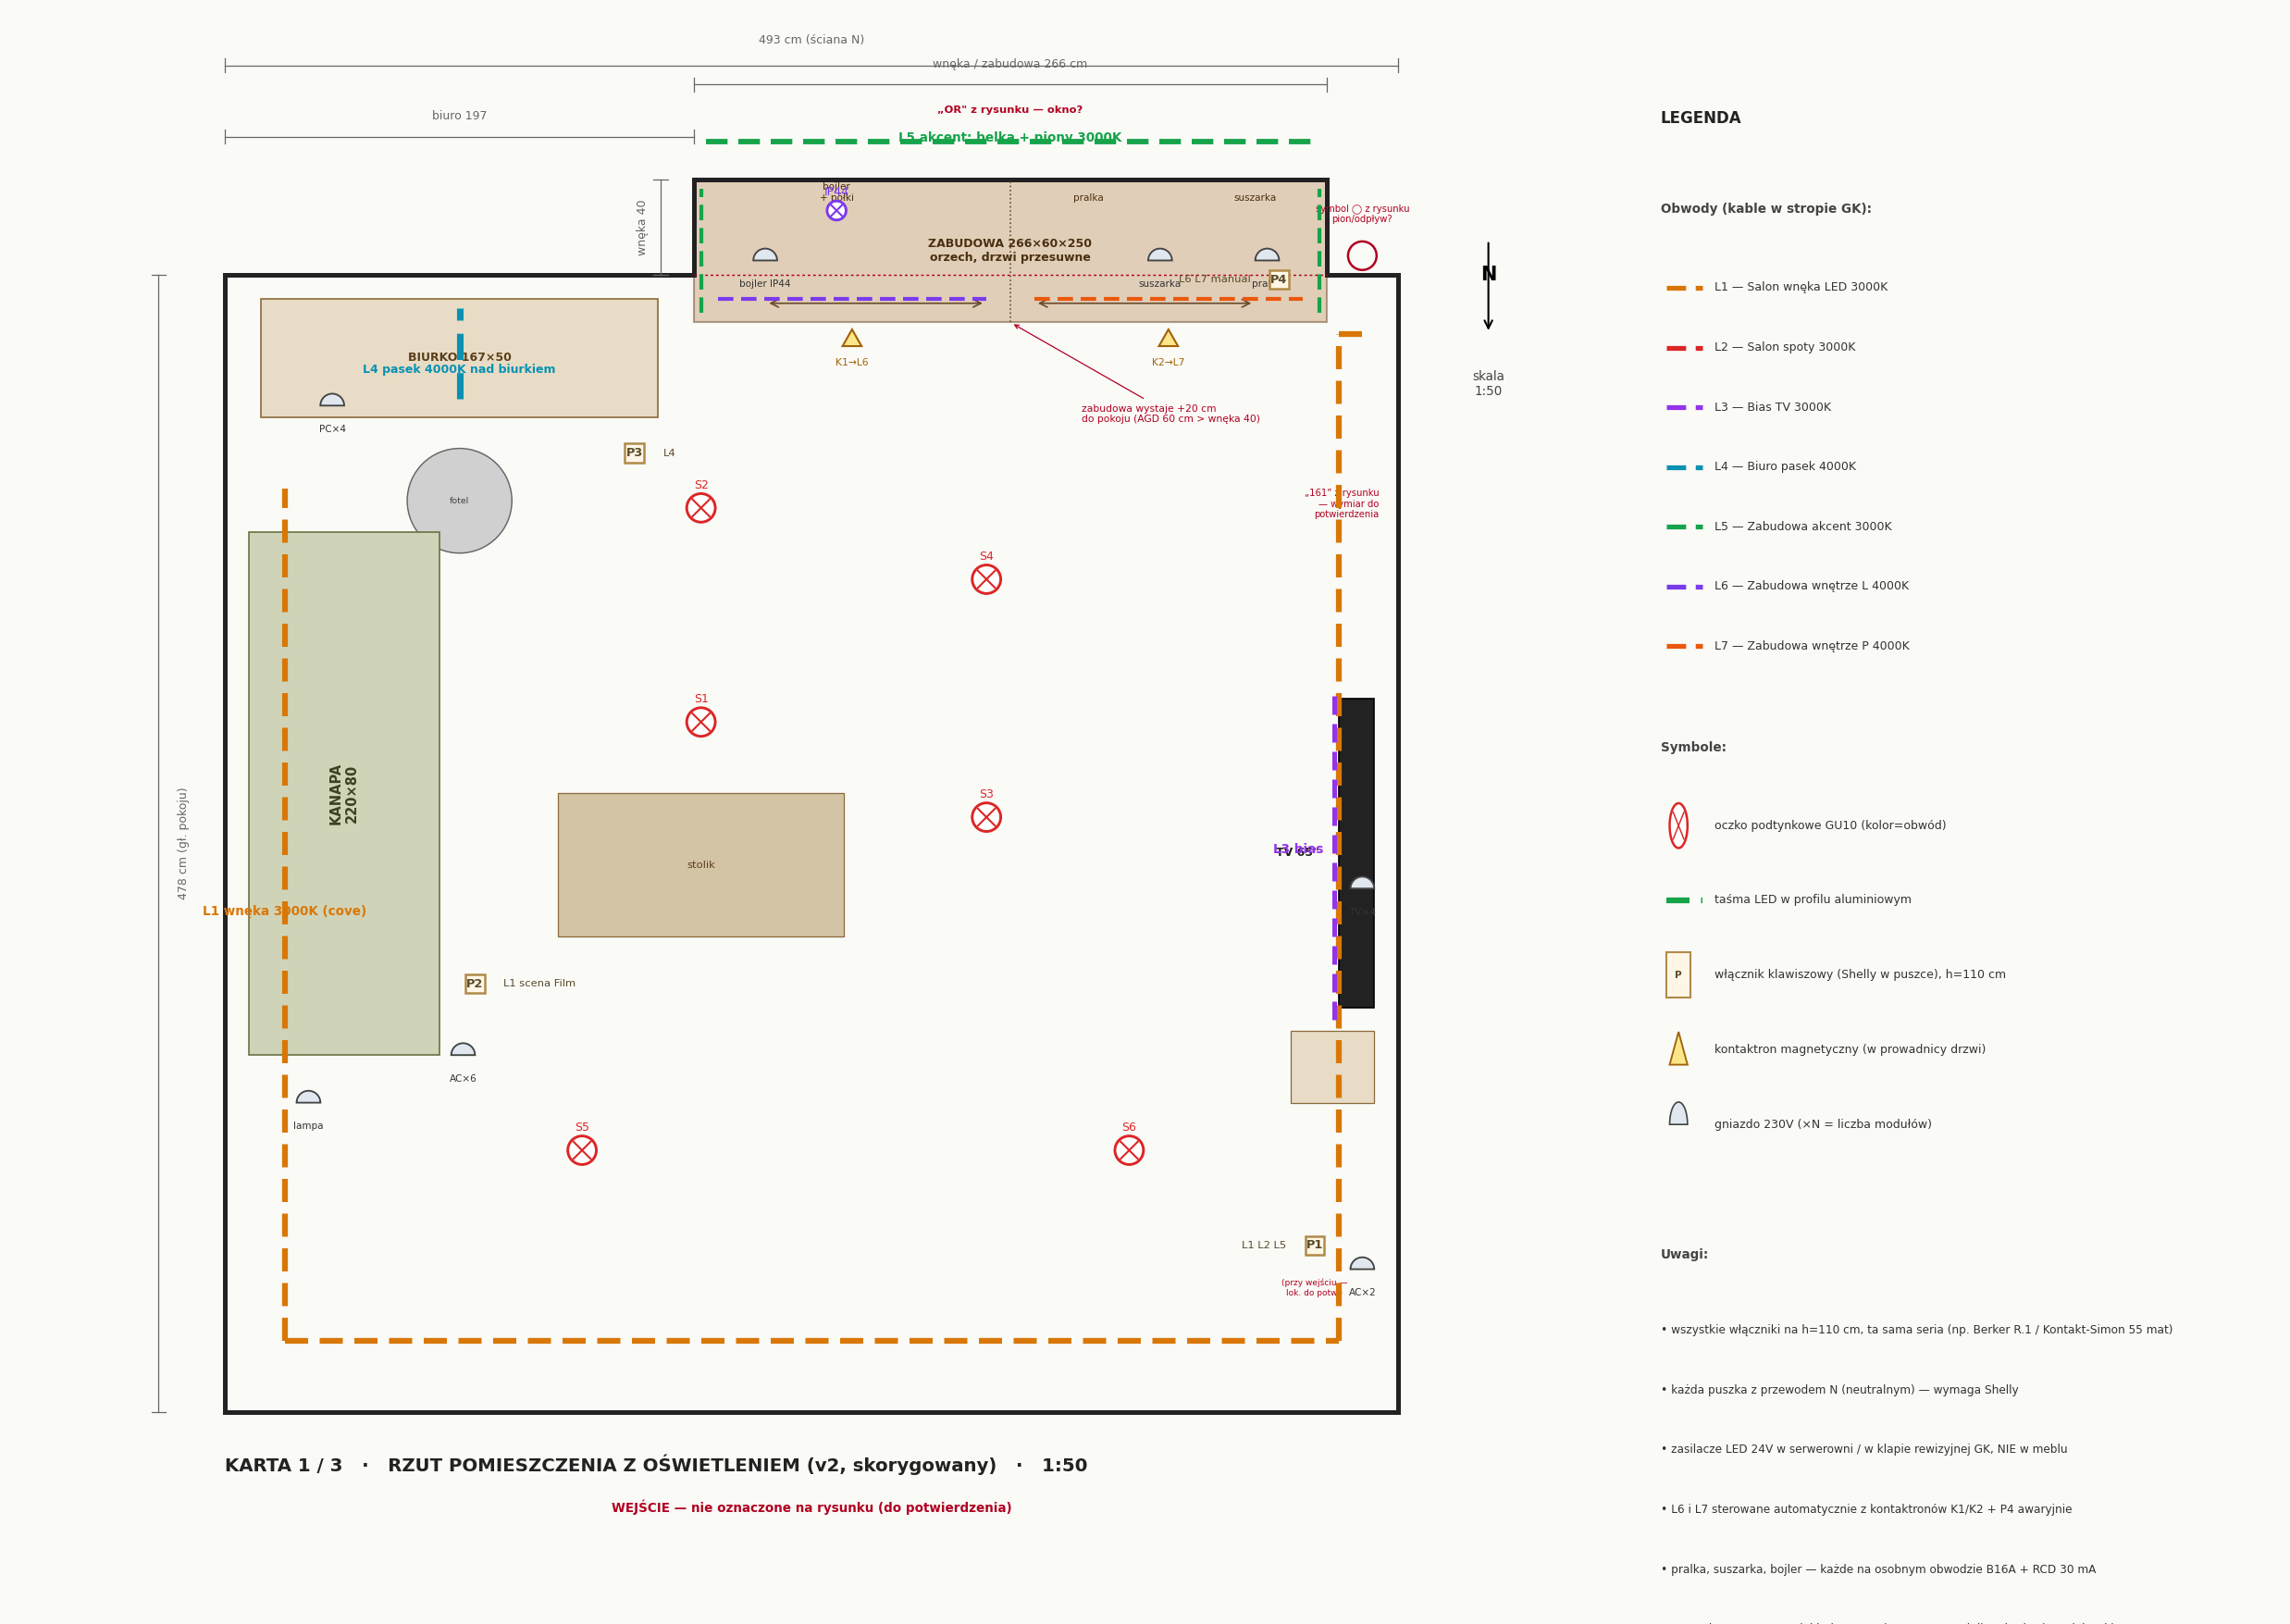
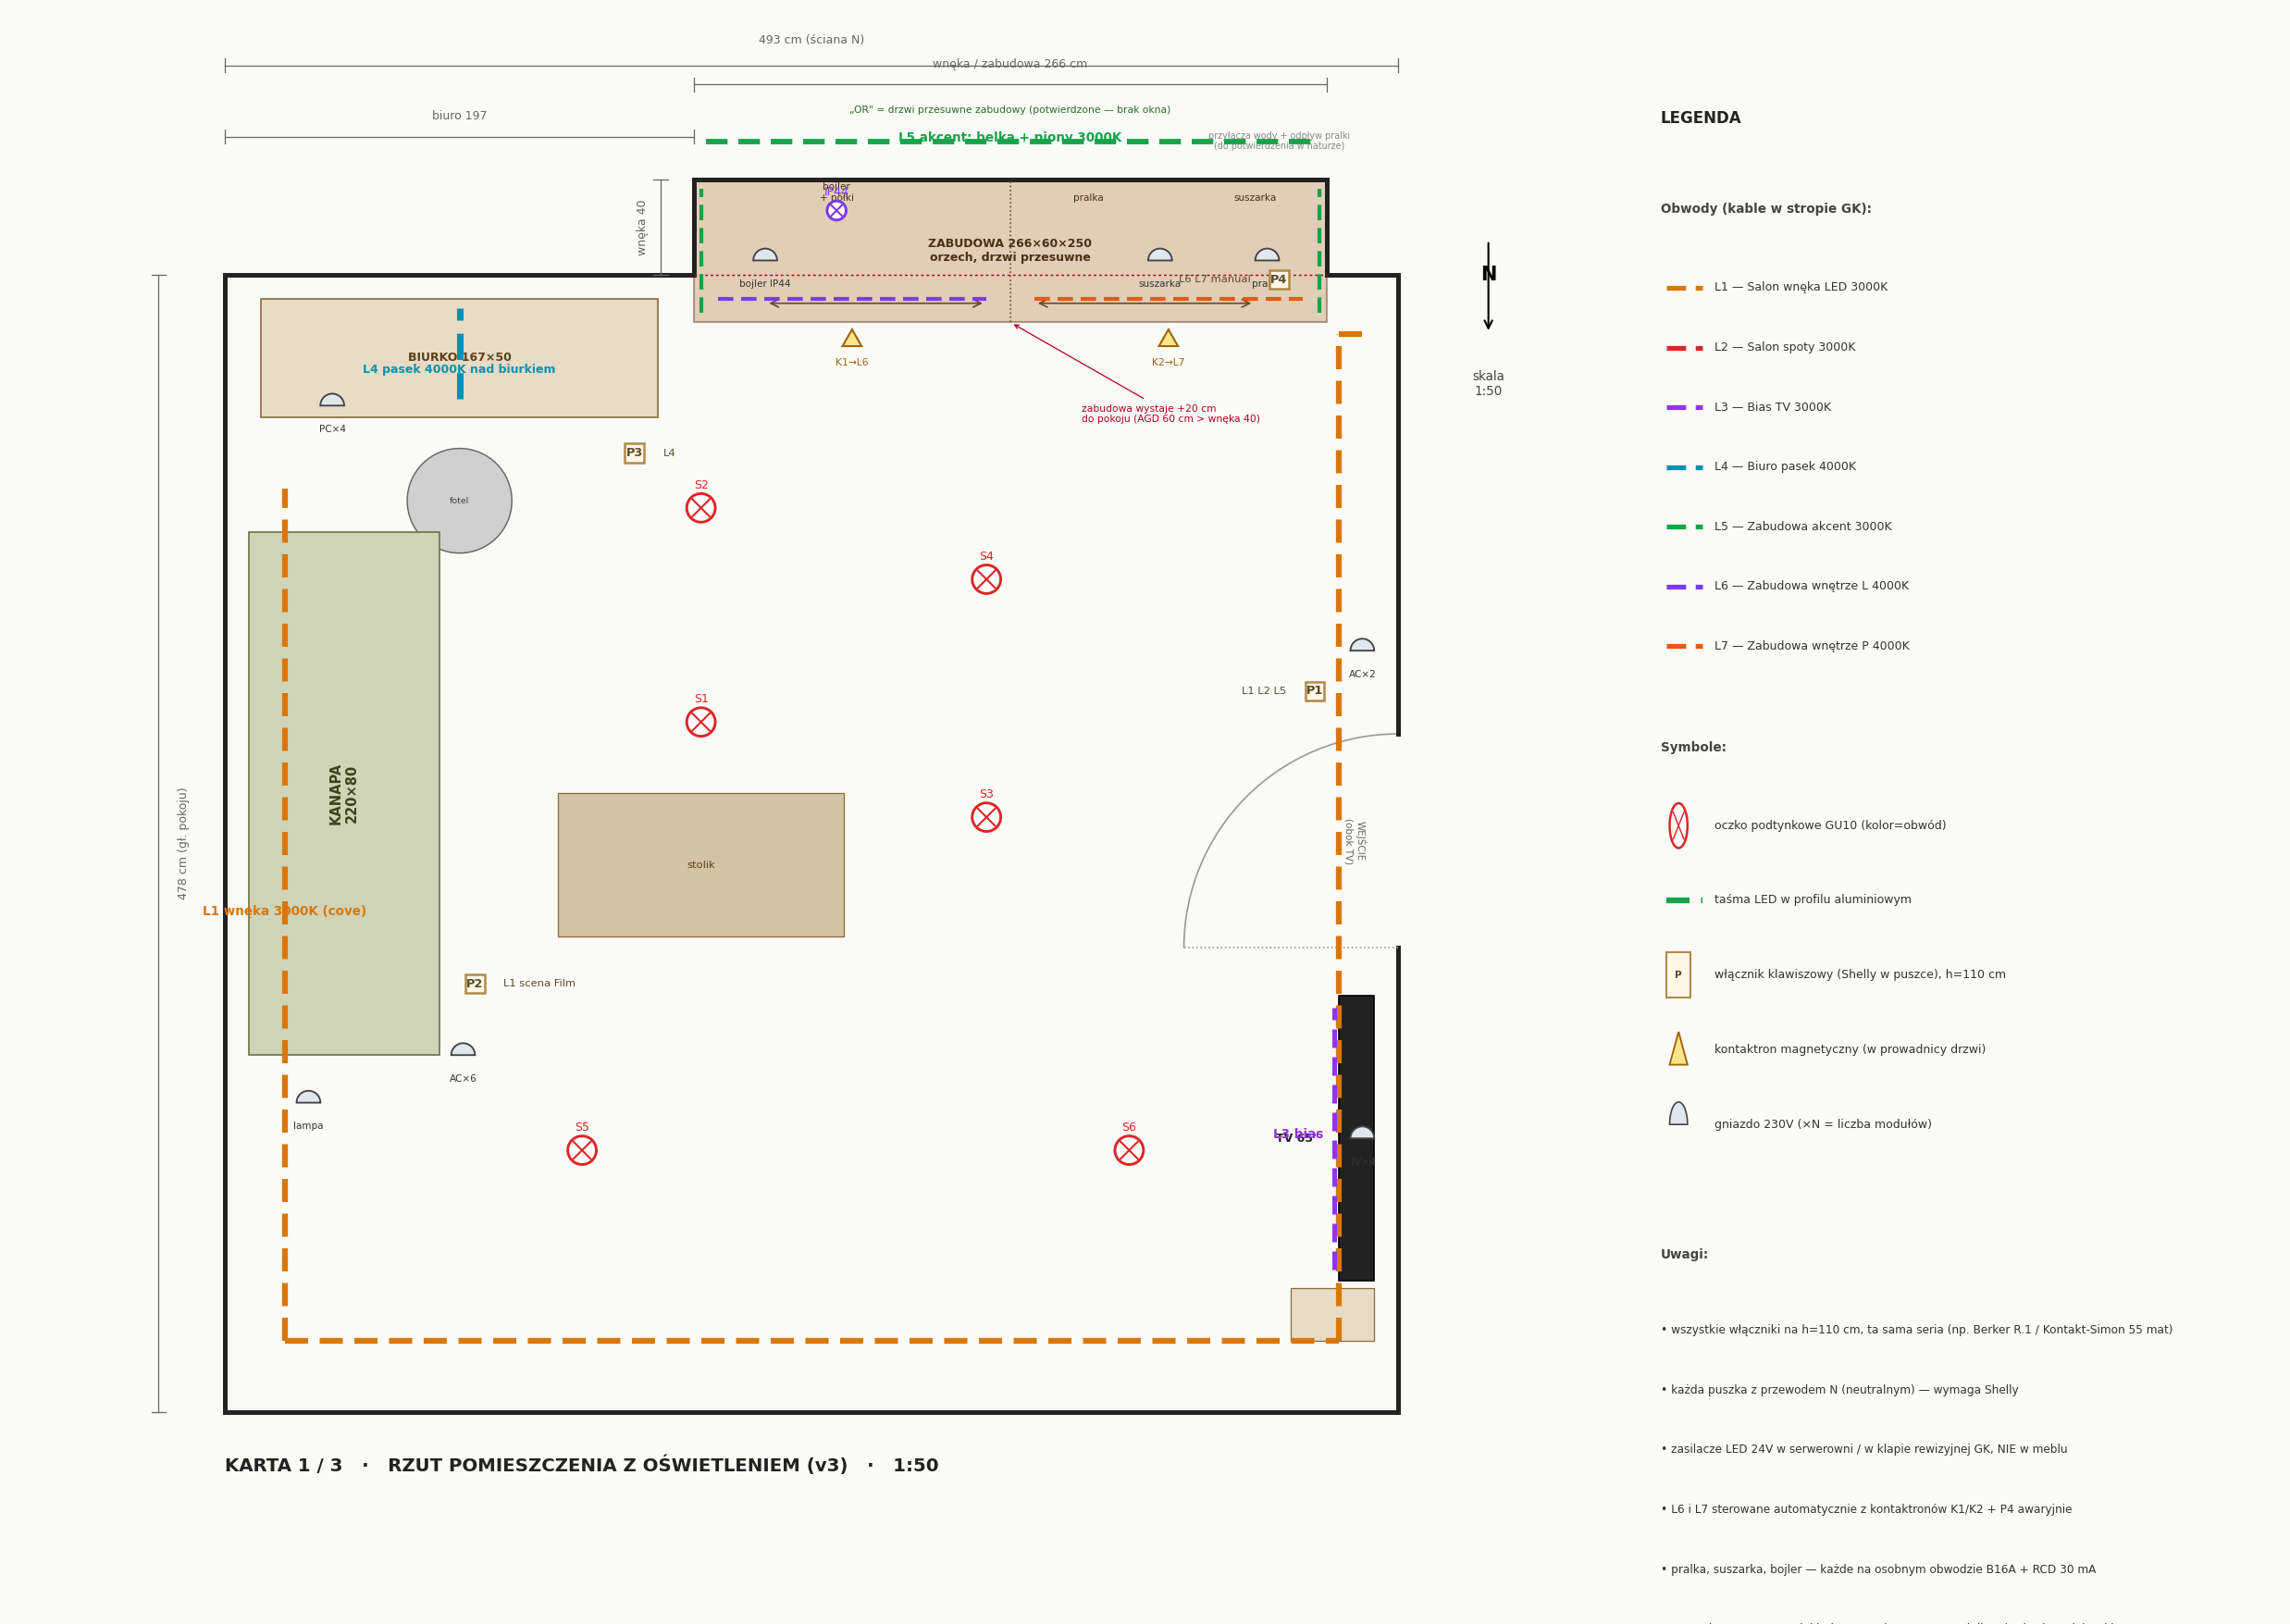
FAZA 0a v3: naniesienie odpowiedzi inwestora
- "OR" = drzwi przesuwne zabudowy (NIE okno) -> usunieto alarm kolizji
- wejscie = sciana E obok TV (srodek) -> przywrocono drzwi z lukiem na
  scianie E, P1 przy wejsciu, TV przesuniete na poludnie, bias L3 i
  gniazdo TV za TV
- symbol kola + wymiar 161 -> zdjete z alarmu, opisane jako do
  potwierdzenia w naturze (nieblokujace)
- dokument: sekcje 0.1/0.3 zaktualizowane, schemat ASCII poprawiony

https://claude.ai/code/session_0136HYJ2FZf3kWQ6QgCs5Cno

diff --git a/projects/pralnia-bojler/OSWIETLENIE.html b/projects/pralnia-bojler/OSWIETLENIE.html
@@ -31,7 +31,7 @@ a { color: #6a5c3a; text-decoration: none; }
 <p>Pomieszczenie wielofunkcyjne ~4,93 × 4,78 m łączące trzy strefy: salon (kanapa + TV), biuro (biurko w narożu NW) oraz zabudowę przesuwną w niszy ściany północnej (wnęka murowa 266 × <strong>40 cm</strong> głęb. wg rysunku; zabudowa <strong>wystaje 20 cm do pokoju</strong> → 60 cm całkowitej głębokości, bo pralka/suszarka mają 60 cm; wysokość 250 cm) z pralką, suszarką, bojlerem elektrycznym i półkami. Inspiracje: ciemny orzech (front przesuwny), kremowe wnętrze szafy, LED w górnej belce i pionowy LED w ościeżu — czyli ciepły, miękki, "premium" charakter zabudowy. Sufit będzie cały podwieszany GK (potwierdzone), smart-home + serwerownię robi sam właściciel (potwierdzone) — czyli projektujemy pod Shelly/HA: każdy obwód osobno, neutralny w każdej puszce, miejsce na zasilacze 24V w serwerowni. W salonie świadoma rezygnacja z lampy wiszącej — atmosfera buduje się przez wnękę LED po obwodzie + spoty podtynkowe + LED dekoracyjny w zabudowie.</p>
 <p>Dokument ma być na tyle konkretny, żeby przekazać go elektrykowi bez tłumaczenia: sekcje, obwody, wysokości, puszki, profile, zasilacze, logika scen.</p>
 <blockquote>
-<p><strong>FAZA 0a — weryfikacja względem rysunku (v2).</strong> Odczyt rzutu odręcznego wykazał trzy korekty względem pierwszej wersji projektu: (1) wnęka murowa ma <strong>40 cm</strong>, nie 60 — zabudowa musi wystawać 20 cm do pokoju; (2) <strong>wejścia nie ma na rysunku</strong> — wcześniejsze założenie „drzwi 90 cm na ścianie E, 161 cm od narożnika" zostało usunięte (P1 = „przy wejściu", lokalizacja do potwierdzenia); (3) na rysunku są trzy nieczytelne elementy do potwierdzenia: napis <strong>„OR"</strong> w obrębie wnęki (okno? — byłaby kolizja z zabudową 250 cm), <strong>symbol ◯</strong> w prawym górnym rogu (pion/odpływ?), oraz wymiar <strong>„161"</strong> (znaczenie nieznane). Szczegóły w sekcji 0.</p>
+<p><strong>FAZA 0a — weryfikacja względem rysunku (v3, po odpowiedziach inwestora).</strong> Odczyt rzutu + 3 pytania dały następujące ustalenia: (1) <strong>wnęka murowa ma 40 cm</strong>, nie 60 — zabudowa wystaje 20 cm do pokoju, bo pralka/suszarka mają 60 cm głęb. (korekta wymiarowa); (2) <strong>napis „OR" = drzwi przesuwne zabudowy</strong> (potwierdzone) — to NIE okno, więc <strong>nie ma kolizji</strong> z zabudową 250 cm; (3) <strong>wejście jest na ścianie E, obok TV, w środkowej części</strong> (potwierdzone) — przywrócono drzwi na ścianie E, P1 przy wejściu, TV przesunięte na południe od drzwi; (4) <strong>symbol ◯</strong> w rogu rysunku = artefakt/oznaczenie do potwierdzenia w naturze (przyłącza wody/odpływ pralki przyjęto w sekcji prawej); (5) wymiar <strong>„161"</strong> pozostaje do potwierdzenia (nieistotny dla projektu świateł).</p>
 </blockquote>
 <hr />
 <h2 id="0-analiza-pomieszczenia-geometria-strefy">0. Analiza pomieszczenia (geometria + strefy)</h2>
@@ -39,9 +39,9 @@ a { color: #6a5c3a; text-decoration: none; }
 <ul>
 <li><strong>Ściana N (góra, 493 cm)</strong> — tu biuro (lewa część) + zabudowa przesuwna (prawa część). Druga kartka potwierdza: „BIURO" lewy-górny, „DRZWI Przesuwne" prawy-górny.</li>
 <li><strong>Ściana W (lewa, 478 cm)</strong> — kanapa.</li>
-<li><strong>Ściana E (prawa, 478 cm)</strong> — TV (przy dolnym/południowym końcu ściany).</li>
+<li><strong>Ściana E (prawa, 478 cm)</strong> — <strong>wejście</strong> w środkowej części + TV na południe od drzwi (potwierdzone przez inwestora).</li>
 <li><strong>Ściana S (dół)</strong> — bez oznaczeń.</li>
-<li><strong>Wejście, okna, instalacje</strong> — patrz 0.3, nie są jednoznacznie opisane na rysunku.</li>
+<li><strong>Okna</strong> — brak w obrębie zabudowy (napis „OR" = drzwi przesuwne, nie okno). Instalacje — patrz 0.3.</li>
 </ul>
 <h3 id="02-wymiary-odczytane-z-rysunku">0.2 Wymiary odczytane z rysunku</h3>
 <table>
@@ -93,14 +93,14 @@ a { color: #6a5c3a; text-decoration: none; }
 <pre><code>                          ŚCIANA PÓŁNOCNA (493 cm)
    ┌──────────────────┲━━━━━━━━━━━━━━━━━━━━━━━━━━━━┱──────┐  ← lico ściany N
    │   biurko 197 cm   ┃ wnęka murowa 266×40 cm    ┃ ~30  │
-   │  (strefa biuro)   ┃ (zabudowa wystaje 20 cm   ┃      │
-   │                   ┃  do pokoju → gł. 60 cm)   ┃◯?    │ ← symbol z rys. (pion/odpływ?)
-   │            „OR&quot;? okno?↑ kolizja z zabudową 250 cm     │
+   │  (strefa biuro)   ┃ zabudowa „OR&quot; = drzwi     ┃      │
+   │                   ┃ przesuwne; wystaje 20 cm  ┃      │
+   │                   ┃ do pokoju → gł. 60 cm     ┃      │
    │                                                      │
-   │ KANAPA                                         TV    │
-   │ (ściana W)                                  (ściana E)│
-   │                                                      │
-   │                  wejście — NIE oznaczone na rysunku  │
+   │ KANAPA                                    ╲ WEJŚCIE  │  ← ściana E, środek
+   │ (ściana W)                                  (obok TV)│
+   │                                              TV ↓    │
+   │                                            (poł. E)  │
    └──────────────────────────────────────────────────────┘
                           ŚCIANA POŁUDNIOWA
        (478 cm głębokość — od północy do południa)
@@ -110,14 +110,17 @@ a { color: #6a5c3a; text-decoration: none; }
 - <strong>Biuro (B):</strong> narożnik NW, ~2,0 × 1,5 m, biurko przy ścianie N (lico płaskie, 197 cm).
 - <strong>Zabudowa przesuwna (Z):</strong> wnęka murowa N 266 × 40 cm; <strong>zabudowa wystaje 20 cm do pokoju → gł. 60 cm</strong>, wys. 250 cm. W środku: pralka + suszarka (sekcja prawa), bojler + półki + pion gospodarczy (sekcja lewa). Drzwi orzech, 2 panele przesuwne nachodzące na siebie (każdy ~135 cm szer.).
 - <strong>Strefa techniczna (T):</strong> wewnątrz zabudowy — pralka 60×60 cm, suszarka 60×60 cm, bojler ~50 l Ø45 wiszący nad podłogą ~150–200 cm, półki, deska do prasowania, odkurzacz pionowy.</p>
-<h3 id="03-elementy-stae-do-potwierdzenia-faza-0a-pytania">0.3 Elementy stałe / do potwierdzenia (FAZA 0a — pytania)</h3>
-<p>Rysunek <strong>nie oznacza</strong> jednoznacznie elementów stałych M&amp;E (instalacji). Do potwierdzenia z inwestorem przed wykonaniem:</p>
+<h3 id="03-ustalenia-faza-0a-elementy-do-potwierdzenia-w-naturze">0.3 Ustalenia FAZA 0a + elementy do potwierdzenia w naturze</h3>
+<p>Rozstrzygnięte z inwestorem:</p>
 <ol>
-<li><strong>Napis „OR" w obrębie wnęki</strong> — czy to <strong>okno</strong>? Jeśli tak, jest to <strong>kolizja krytyczna</strong>: nie da się postawić zabudowy 250 cm zasłaniającej okno. Wymaga przeprojektowania (zabudowa niższa / ominięcie okna).</li>
-<li><strong>Symbol ◯ w prawym górnym rogu</strong> — prawdopodobnie <strong>pion kanalizacyjny / odpływ / kratka</strong>. Jeśli tak, to element stały — wygodnie wypada przy sekcji pralki (prawa strona zabudowy), ale trzeba potwierdzić, że nie wpada w obrys urządzeń.</li>
-<li><strong>Wymiar „161"</strong> (pionowy, prawa strona) — znaczenie nieznane (głębokość strefy? szerokość odcinka? otwór?).</li>
-<li><strong>Wejście do pomieszczenia</strong> — brak na rysunku. Od jego położenia zależy lokalizacja włącznika P1 i przebieg ścieżki spotów L2/S5–S6.</li>
-<li><strong>Bojler, przyłącza wody, pion CO, wentylacja</strong> — <strong>nie są zaznaczone na tym rysunku</strong>; ich położenie w projekcie pochodzi ze zdjęć inspiracyjnych i wcześniejszych ustaleń (<code>PLAN.md</code>), nie z rzutu. Wymaga potwierdzenia w naturze.</li>
+<li><strong>„OR" = drzwi przesuwne zabudowy</strong> — nie okno → <strong>brak kolizji</strong>, zabudowa 250 cm stoi bez przeszkód. ✓</li>
+<li><strong>Wejście = ściana E, obok TV, środkowa część</strong> → P1 (główny włącznik) przy wejściu na ścianie E; TV przesunięte na południe od drzwi; ścieżka spotów L2 (S5/S6) prowadzi od wejścia w głąb salonu. ✓</li>
+</ol>
+<p>Do potwierdzenia w naturze przed wykonaniem (nie blokują projektu świateł):</p>
+<ol start="3">
+<li><strong>Symbol ◯</strong> w rogu rysunku — przyjęto, że przyłącza wody + odpływ pralki są w <strong>sekcji prawej</strong> zabudowy; potwierdzić rzeczywiste położenie pionu/odpływu.</li>
+<li><strong>Wymiar „161"</strong> — znaczenie nieznane; nieistotny dla rozmieszczenia oświetlenia.</li>
+<li><strong>Bojler, przyłącza wody, pion CO, wentylacja</strong> — nie są zaznaczone na rzucie; ich położenie pochodzi ze zdjęć inspiracyjnych i <code>PLAN.md</code>. Potwierdzić w naturze (zwłaszcza dostęp serwisowy do bojlera i ewentualny pion CO, którego nie wolno zabudować na głucho).</li>
 </ol>
 <p>Wysokość pomieszczenia po podwieszeniu GK: zakładam 260–270 cm (zostawiamy 10–15 cm na profil LED + przeciągnięcie kabli). Zabudowa 250 cm = równa z lub poniżej sufitu, <strong>zostaw 5–10 cm zachowanej szczeliny między górą zabudowy a sufitem</strong> — tam ukryjemy LED kompozycyjne nad belką.</p>
 <hr />
@@ -359,8 +362,7 @@ a { color: #6a5c3a; text-decoration: none; }
 </tbody>
 </table>
 <h3 id="lokalizacja-klawiszy-fizycznych-puszek">Lokalizacja klawiszy fizycznych (puszek)</h3>
-<pre><code>P1 (przy wejściu do pokoju — UWAGA: wejście nie oznaczone na rysunku,
-    lokalizację puszki ustalić po potwierdzeniu drzwi; h=110 cm):
+<pre><code>P1 (przy wejściu, ściana E obok TV, po stronie zawiasu drzwi, h=110 cm):
    ramka 3M lub 4M:
    ├── klawisz 1: L1 Salon wnęka  (krótko ON/OFF, długo dim)
    ├── klawisz 2: L2 Salon spoty  (krótko ON/OFF, długo dim)

diff --git a/projects/pralnia-bojler/_drawings.py b/projects/pralnia-bojler/_drawings.py
@@ -132,10 +132,19 @@ def draw_rzut(ax):
     ax.axis("off")
     ax.set_facecolor(BG)
 
-    # ZEWNETRZNY OBWOD SCIAN (wejscie NIE jest oznaczone na rysunku — sciany zamkniete)
+    # ZEWNETRZNY OBWOD SCIAN. Wejscie: sciana E obok TV (srodek) — wg ustalen.
+    DRZWI_Y0, DRZWI_W = 195, 90   # otwor drzwi na scianie E (y0..y0+90), srodek ~240
     ax.plot([0, W], [0, 0], color=WALL_COLOR, linewidth=WALL_LW)   # poludniowa (S)
     ax.plot([0, 0], [0, H], color=WALL_COLOR, linewidth=WALL_LW)   # zachodnia (W)
-    ax.plot([W, W], [0, H], color=WALL_COLOR, linewidth=WALL_LW)   # wschodnia (E)
+    ax.plot([W, W], [0, DRZWI_Y0], color=WALL_COLOR, linewidth=WALL_LW)        # E dol
+    ax.plot([W, W], [DRZWI_Y0 + DRZWI_W, H], color=WALL_COLOR, linewidth=WALL_LW)  # E gora
+    # drzwi wejsciowe (otwierane do srodka, luk)
+    arc = patches.Arc((W, DRZWI_Y0), 2 * DRZWI_W, 2 * DRZWI_W, angle=0,
+                      theta1=90, theta2=180, color="#999", linewidth=0.8)
+    ax.add_patch(arc)
+    ax.plot([W, W - DRZWI_W], [DRZWI_Y0, DRZWI_Y0], color="#999", linewidth=0.8, linestyle=":")
+    ax.text(W - 18, DRZWI_Y0 + DRZWI_W / 2, "WEJŚCIE\n(obok TV)", fontsize=5,
+            color="#666", ha="center", va="center", rotation=-90)
     # polnocna sciana z wnęką murowa:
     ax.plot([0, NISZA_X], [H, H], color=WALL_COLOR, linewidth=WALL_LW)
     ax.plot([NISZA_X + NISZA_W, W], [H, H], color=WALL_COLOR, linewidth=WALL_LW)
@@ -144,9 +153,6 @@ def draw_rzut(ax):
     ax.plot([NISZA_X + NISZA_W, NISZA_X + NISZA_W], [H, H + NISZA_D_MUR], color=WALL_COLOR, linewidth=WALL_LW)
     ax.plot([NISZA_X, NISZA_X + NISZA_W], [H + NISZA_D_MUR, H + NISZA_D_MUR], color=WALL_COLOR, linewidth=WALL_LW)
 
-    # WEJSCIE — nieoznaczone na rysunku
-    ax.text(W / 2, -42, "WEJŚCIE — nie oznaczone na rysunku (do potwierdzenia)",
-            fontsize=6.5, ha="center", color="#b00020", fontweight="bold")
 
     # ZABUDOWA — front wystaje 20 cm do pokoju (od ZAB_FRONT do H+NISZA_D_MUR)
     zab_x0, zab_y0 = NISZA_X, ZAB_FRONT
@@ -202,13 +208,13 @@ def draw_rzut(ax):
     ax.add_patch(Rectangle((140, 200), 120, 60, facecolor="#d4c4a6", edgecolor="#8a6a3a", linewidth=0.6))
     ax.text(200, 230, "stolik", fontsize=5.5, ha="center", va="center", color="#5a3f1a")
 
-    # TV na scianie wschodniej
-    tvx, tvy, tvw, tvh = W - 25, 170, 15, 130
+    # TV na scianie wschodniej, na poludnie od drzwi wejsciowych
+    tvx, tvy, tvw, tvh = W - 25, 55, 15, 120
     ax.add_patch(Rectangle((tvx, tvy), tvw, tvh, facecolor="#222", edgecolor="#000", linewidth=0.8))
     ax.text(tvx - 8, tvy + tvh / 2, "TV 65\"", fontsize=6, ha="right", va="center",
             color="#222", fontweight="bold")
     # szafka pod TV
-    ax.add_patch(Rectangle((W - 45, 130), 35, 30, facecolor="#e8dcc6", edgecolor="#8a6a3a", linewidth=0.6))
+    ax.add_patch(Rectangle((W - 45, 30), 35, 22, facecolor="#e8dcc6", edgecolor="#8a6a3a", linewidth=0.6))
 
     # OSWIETLENIE - L1 wnęka po obwodzie salonu (pomija strefę biura i zabudowy)
     # obwod: zachod (od y=30 do y=140), poludnie (od x=15 do x=W-15), wschod (od y=30 do y=H-90)
@@ -231,7 +237,7 @@ def draw_rzut(ax):
         spot(ax, x, y, circuit="L2", label=lbl)
 
     # L3 - bias TV (krotki pasek za TV)
-    led_strip(ax, [W - 27, W - 27], [165, 305], "L3", label="L3 bias", offset=(-15, 0), lw=2.4)
+    led_strip(ax, [W - 27, W - 27], [tvy + 5, tvy + tvh - 5], "L3", label="L3 bias", offset=(-15, 0), lw=2.4)
 
     # L4 - pasek nad biurkiem (prostopadle do sciany N, nad srodkiem biurka)
     led_strip(ax, [bx0 + bw / 2, bx0 + bw / 2], [by0 + 8, by0 + bh - 4],
@@ -257,10 +263,8 @@ def draw_rzut(ax):
     spot(ax, NISZA_X + 60, H + NISZA_D_MUR - 13, circuit="L6", size=4, label="IP44")
 
     # WLACZNIKI
-    # P1 - przy wejsciu (lokalizacja wejscia do potwierdzenia)
-    switch(ax, W - 35, 70, "P1", ["L1 L2 L5"], side="left")
-    ax.text(W - 35, 56, "(przy wejściu —\nlok. do potw.)", fontsize=4.3,
-            ha="center", va="top", color="#b00020")
+    # P1 - przy wejsciu na scianie E (na polnoc od otworu drzwi)
+    switch(ax, W - 35, DRZWI_Y0 + DRZWI_W + 18, "P1", ["L1 L2 L5"], side="left")
     # P2 - przy kanapie
     switch(ax, kx0 + kw + 15, ky0 + 30, "P2", ["L1", "scena Film"], side="right")
     # P3 - biuro
@@ -269,8 +273,8 @@ def draw_rzut(ax):
     switch(ax, zab_x0 + NISZA_W - 20, ZAB_FRONT + 18, "P4", ["L6 L7 manual"], side="left")
 
     # GNIAZDA 230V - zaznaczone w kluczowych miejscach
-    socket(ax, W - 15, 220, "TV", n=4)
-    socket(ax, W - 15, 60, "AC", n=2)
+    socket(ax, W - 15, 115, "TV", n=4)      # za TV (poludnie sciany E)
+    socket(ax, W - 15, 320, "AC", n=2)      # przy wejsciu (odkurzacz/ladowarka)
     socket(ax, 35, 130, "lampa", n=1)
     socket(ax, kx0 + kw + 10, ky0, "AC", n=6)  # za kanapa
     socket(ax, bx0 + 30, by0 + 5, "PC", n=4)  # biurko
@@ -287,18 +291,14 @@ def draw_rzut(ax):
     # glebokosc wneki murowej 40 cm (pionowy wymiar przy lewej krawedzi wneki)
     dim_line(ax, NISZA_X - 14, H, NISZA_X - 14, H + NISZA_D_MUR, "wnęka 40", offset_perp=5, side="below")
 
-    # ELEMENTY NIECZYTELNE Z RYSUNKU (do potwierdzenia) — zaznaczone na czerwono
-    # "OR" napisane na rysunku w obrebie wneki — mozliwe OKNO (kolizja z zabudowa!)
-    ax.text(NISZA_X + NISZA_W / 2, H + NISZA_D_MUR + 28, '„OR" z rysunku — okno?',
-            fontsize=5.5, ha="center", color="#b00020", fontweight="bold")
-    # kolko w prawym gornym rogu rysunku — mozliwy pion / odplyw / kratka
-    ax.add_patch(Circle((NISZA_X + NISZA_W + 15, H + 8), 6, facecolor="none",
-                        edgecolor="#b00020", linewidth=1.2, zorder=6))
-    ax.text(NISZA_X + NISZA_W + 15, H + 22, "symbol ◯ z rysunku\npion/odpływ?",
-            fontsize=4.8, ha="center", color="#b00020")
-    # wymiar "161" z rysunku — znaczenie do potwierdzenia
-    ax.text(W - 8, H - 90, "„161” z rysunku\n— wymiar do\npotwierdzenia",
-            fontsize=4.8, ha="right", va="top", color="#b00020")
+    # POTWIERDZONE: "OR" z rysunku = drzwi przesuwne zabudowy (NIE okno — brak kolizji)
+    ax.text(NISZA_X + NISZA_W / 2, H + NISZA_D_MUR + 28,
+            '„OR" = drzwi przesuwne zabudowy (potwierdzone — brak okna)',
+            fontsize=5.2, ha="center", color="#2a6a2a")
+    # przylacza pralki/odplyw — do potwierdzenia w naturze (sekcja prawa)
+    ax.text(NISZA_X + NISZA_W - 20, H + NISZA_D_MUR + 12,
+            "przyłącza wody + odpływ pralki\n(do potwierdzenia w naturze)",
+            fontsize=4.6, ha="center", va="bottom", color="#888")
 
     # ROZA KIERUNKOW + skala
     ax.text(W + 38, H, "N", ha="center", va="center", fontsize=10, fontweight="bold")
@@ -307,7 +307,7 @@ def draw_rzut(ax):
     ax.text(W + 38, H - 40, "skala\n1:50", ha="center", va="top", fontsize=6.5, color="#444")
 
     # TYTUL
-    ax.text(0, -25, "KARTA 1 / 3   ·   RZUT POMIESZCZENIA Z OŚWIETLENIEM (v2, skorygowany)   ·   1:50",
+    ax.text(0, -25, "KARTA 1 / 3   ·   RZUT POMIESZCZENIA Z OŚWIETLENIEM (v3)   ·   1:50",
             fontsize=9.5, fontweight="bold", color="#222")
 
 

diff --git a/projects/pralnia-bojler/OSWIETLENIE.md b/projects/pralnia-bojler/OSWIETLENIE.md
@@ -6,7 +6,7 @@ Pomieszczenie wielofunkcyjne ~4,93 × 4,78 m łączące trzy strefy: salon (kana
 
 Dokument ma być na tyle konkretny, żeby przekazać go elektrykowi bez tłumaczenia: sekcje, obwody, wysokości, puszki, profile, zasilacze, logika scen.
 
-> **FAZA 0a — weryfikacja względem rysunku (v2).** Odczyt rzutu odręcznego wykazał trzy korekty względem pierwszej wersji projektu: (1) wnęka murowa ma **40 cm**, nie 60 — zabudowa musi wystawać 20 cm do pokoju; (2) **wejścia nie ma na rysunku** — wcześniejsze założenie „drzwi 90 cm na ścianie E, 161 cm od narożnika" zostało usunięte (P1 = „przy wejściu", lokalizacja do potwierdzenia); (3) na rysunku są trzy nieczytelne elementy do potwierdzenia: napis **„OR"** w obrębie wnęki (okno? — byłaby kolizja z zabudową 250 cm), **symbol ◯** w prawym górnym rogu (pion/odpływ?), oraz wymiar **„161"** (znaczenie nieznane). Szczegóły w sekcji 0.
+> **FAZA 0a — weryfikacja względem rysunku (v3, po odpowiedziach inwestora).** Odczyt rzutu + 3 pytania dały następujące ustalenia: (1) **wnęka murowa ma 40 cm**, nie 60 — zabudowa wystaje 20 cm do pokoju, bo pralka/suszarka mają 60 cm głęb. (korekta wymiarowa); (2) **napis „OR" = drzwi przesuwne zabudowy** (potwierdzone) — to NIE okno, więc **nie ma kolizji** z zabudową 250 cm; (3) **wejście jest na ścianie E, obok TV, w środkowej części** (potwierdzone) — przywrócono drzwi na ścianie E, P1 przy wejściu, TV przesunięte na południe od drzwi; (4) **symbol ◯** w rogu rysunku = artefakt/oznaczenie do potwierdzenia w naturze (przyłącza wody/odpływ pralki przyjęto w sekcji prawej); (5) wymiar **„161"** pozostaje do potwierdzenia (nieistotny dla projektu świateł).
 
 ---
 
@@ -16,9 +16,9 @@ Dokument ma być na tyle konkretny, żeby przekazać go elektrykowi bez tłumacz
 
 - **Ściana N (góra, 493 cm)** — tu biuro (lewa część) + zabudowa przesuwna (prawa część). Druga kartka potwierdza: „BIURO" lewy-górny, „DRZWI Przesuwne" prawy-górny.
 - **Ściana W (lewa, 478 cm)** — kanapa.
-- **Ściana E (prawa, 478 cm)** — TV (przy dolnym/południowym końcu ściany).
+- **Ściana E (prawa, 478 cm)** — **wejście** w środkowej części + TV na południe od drzwi (potwierdzone przez inwestora).
 - **Ściana S (dół)** — bez oznaczeń.
-- **Wejście, okna, instalacje** — patrz 0.3, nie są jednoznacznie opisane na rysunku.
+- **Okna** — brak w obrębie zabudowy (napis „OR" = drzwi przesuwne, nie okno). Instalacje — patrz 0.3.
 
 ### 0.2 Wymiary odczytane z rysunku
 
@@ -36,14 +36,14 @@ Dokument ma być na tyle konkretny, żeby przekazać go elektrykowi bez tłumacz
                           ŚCIANA PÓŁNOCNA (493 cm)
    ┌──────────────────┲━━━━━━━━━━━━━━━━━━━━━━━━━━━━┱──────┐  ← lico ściany N
    │   biurko 197 cm   ┃ wnęka murowa 266×40 cm    ┃ ~30  │
-   │  (strefa biuro)   ┃ (zabudowa wystaje 20 cm   ┃      │
-   │                   ┃  do pokoju → gł. 60 cm)   ┃◯?    │ ← symbol z rys. (pion/odpływ?)
-   │            „OR"? okno?↑ kolizja z zabudową 250 cm     │
+   │  (strefa biuro)   ┃ zabudowa „OR" = drzwi     ┃      │
+   │                   ┃ przesuwne; wystaje 20 cm  ┃      │
+   │                   ┃ do pokoju → gł. 60 cm     ┃      │
    │                                                      │
-   │ KANAPA                                         TV    │
-   │ (ściana W)                                  (ściana E)│
-   │                                                      │
-   │                  wejście — NIE oznaczone na rysunku  │
+   │ KANAPA                                    ╲ WEJŚCIE  │  ← ściana E, środek
+   │ (ściana W)                                  (obok TV)│
+   │                                              TV ↓    │
+   │                                            (poł. E)  │
    └──────────────────────────────────────────────────────┘
                           ŚCIANA POŁUDNIOWA
        (478 cm głębokość — od północy do południa)
@@ -55,15 +55,18 @@ Strefy funkcjonalne i orientacyjne wymiary do projektu świateł:
 - **Zabudowa przesuwna (Z):** wnęka murowa N 266 × 40 cm; **zabudowa wystaje 20 cm do pokoju → gł. 60 cm**, wys. 250 cm. W środku: pralka + suszarka (sekcja prawa), bojler + półki + pion gospodarczy (sekcja lewa). Drzwi orzech, 2 panele przesuwne nachodzące na siebie (każdy ~135 cm szer.).
 - **Strefa techniczna (T):** wewnątrz zabudowy — pralka 60×60 cm, suszarka 60×60 cm, bojler ~50 l Ø45 wiszący nad podłogą ~150–200 cm, półki, deska do prasowania, odkurzacz pionowy.
 
-### 0.3 Elementy stałe / do potwierdzenia (FAZA 0a — pytania)
+### 0.3 Ustalenia FAZA 0a + elementy do potwierdzenia w naturze
 
-Rysunek **nie oznacza** jednoznacznie elementów stałych M&E (instalacji). Do potwierdzenia z inwestorem przed wykonaniem:
+Rozstrzygnięte z inwestorem:
 
-1. **Napis „OR" w obrębie wnęki** — czy to **okno**? Jeśli tak, jest to **kolizja krytyczna**: nie da się postawić zabudowy 250 cm zasłaniającej okno. Wymaga przeprojektowania (zabudowa niższa / ominięcie okna).
-2. **Symbol ◯ w prawym górnym rogu** — prawdopodobnie **pion kanalizacyjny / odpływ / kratka**. Jeśli tak, to element stały — wygodnie wypada przy sekcji pralki (prawa strona zabudowy), ale trzeba potwierdzić, że nie wpada w obrys urządzeń.
-3. **Wymiar „161"** (pionowy, prawa strona) — znaczenie nieznane (głębokość strefy? szerokość odcinka? otwór?).
-4. **Wejście do pomieszczenia** — brak na rysunku. Od jego położenia zależy lokalizacja włącznika P1 i przebieg ścieżki spotów L2/S5–S6.
-5. **Bojler, przyłącza wody, pion CO, wentylacja** — **nie są zaznaczone na tym rysunku**; ich położenie w projekcie pochodzi ze zdjęć inspiracyjnych i wcześniejszych ustaleń (`PLAN.md`), nie z rzutu. Wymaga potwierdzenia w naturze.
+1. **„OR" = drzwi przesuwne zabudowy** — nie okno → **brak kolizji**, zabudowa 250 cm stoi bez przeszkód. ✓
+2. **Wejście = ściana E, obok TV, środkowa część** → P1 (główny włącznik) przy wejściu na ścianie E; TV przesunięte na południe od drzwi; ścieżka spotów L2 (S5/S6) prowadzi od wejścia w głąb salonu. ✓
+
+Do potwierdzenia w naturze przed wykonaniem (nie blokują projektu świateł):
+
+3. **Symbol ◯** w rogu rysunku — przyjęto, że przyłącza wody + odpływ pralki są w **sekcji prawej** zabudowy; potwierdzić rzeczywiste położenie pionu/odpływu.
+4. **Wymiar „161"** — znaczenie nieznane; nieistotny dla rozmieszczenia oświetlenia.
+5. **Bojler, przyłącza wody, pion CO, wentylacja** — nie są zaznaczone na rzucie; ich położenie pochodzi ze zdjęć inspiracyjnych i `PLAN.md`. Potwierdzić w naturze (zwłaszcza dostęp serwisowy do bojlera i ewentualny pion CO, którego nie wolno zabudować na głucho).
 
 Wysokość pomieszczenia po podwieszeniu GK: zakładam 260–270 cm (zostawiamy 10–15 cm na profil LED + przeciągnięcie kabli). Zabudowa 250 cm = równa z lub poniżej sufitu, **zostaw 5–10 cm zachowanej szczeliny między górą zabudowy a sufitem** — tam ukryjemy LED kompozycyjne nad belką.
 
@@ -208,8 +211,7 @@ System: **smart-first** — każdy obwód niezależny, sterowany z Shelly w pusz
 ### Lokalizacja klawiszy fizycznych (puszek)
 
 ```
-P1 (przy wejściu do pokoju — UWAGA: wejście nie oznaczone na rysunku,
-    lokalizację puszki ustalić po potwierdzeniu drzwi; h=110 cm):
+P1 (przy wejściu, ściana E obok TV, po stronie zawiasu drzwi, h=110 cm):
    ramka 3M lub 4M:
    ├── klawisz 1: L1 Salon wnęka  (krótko ON/OFF, długo dim)
    ├── klawisz 2: L2 Salon spoty  (krótko ON/OFF, długo dim)